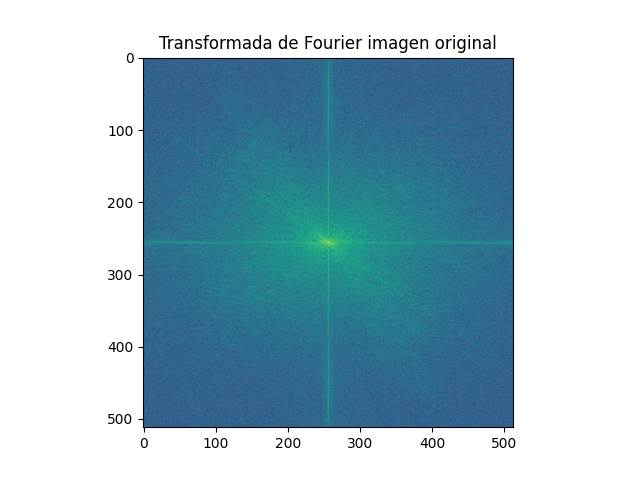
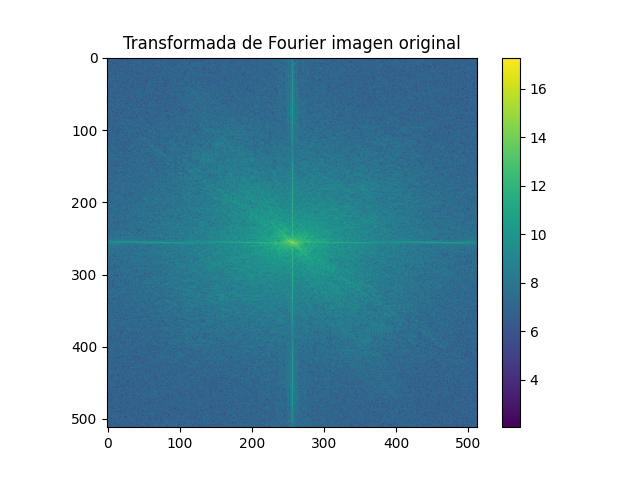
Added colorbar to fourier transform grafics

diff --git a/lab2.py b/lab2.py
@@ -36,7 +36,8 @@ def fillWithZeros(matrix, kernel):
     return matrix
 
 
-# Convolution function, that makes the convolution between a matrix of values of an image and a kernel, this kernel must have odd dimensions
+# Convolution function, that makes the convolution between a matrix of values of an 
+# image and a kernel, this kernel must have odd dimensions
 # inputs
 #   matrix: matrix with pixel values if an image
 #   kernel: kernel matrix wich dimension must be odd to have a central element
@@ -114,7 +115,8 @@ def convolutionTest(matrix,kernelCol,kernelRow):
     testKernel = np.array(testKernel)
     convoluted = convolve(matrix, testKernel)
 
-    # The pixel values that are compared between the original and the convoluted matrix are the pixels in the convoluted matrix than are not in the borders
+    # The pixel values that are compared between the original and the convoluted 
+    # matrix are the pixels in the convoluted matrix than are not in the borders
     # of the image
     colstart = int(kernelCol/2)
     rowStart = int(kernelRow/2)
@@ -145,6 +147,7 @@ class ImageObject:
         fourierOriginal = fftshift(fourierData)
         g = plt.figure()
         plt.imshow(np.log(abs(fourierOriginal)))
+        plt.colorbar()
         if(title == "" or title == None):    
             plt.title("Transformada de Fourier de imagen")
         else:
